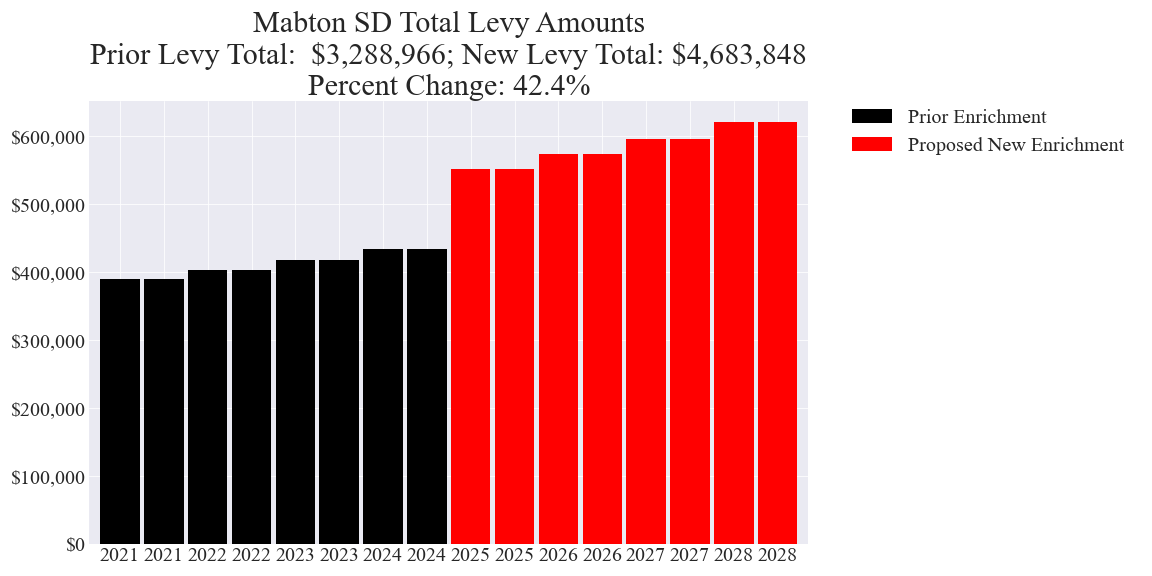
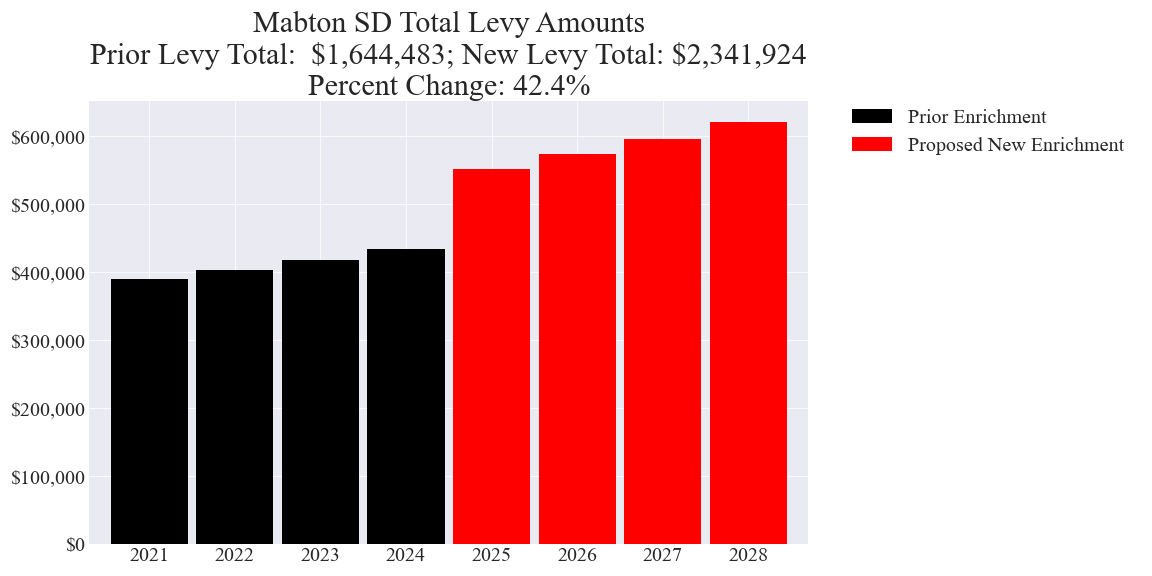
Updated election 20240213
Updated:
Mabton SD

Changed region(s): [[0.0625, 0.2188, 0.7188, 1.0], [0.5938, 0.0625, 0.7188, 0.125], [0.2812, 0.0625, 0.4062, 0.125]]

diff --git a/_includes/cost_estimates/20240213/Mabton_Enrichment_20240213_Enhanced.html b/_includes/cost_estimates/20240213/Mabton_Enrichment_20240213_Enhanced.html
@@ -19,7 +19,7 @@
 	totalLevyCostParcel = sampleParcelPOF * totalLevyCost;
 	levyYears = 4;
 	averageTotalLevyCostParcel = totalLevyCostParcel / levyYears;
-	totalLevyPriorCost = 3288966;
+	totalLevyPriorCost = 1644483;
 	totalLevyPriorCostParcel = sampleParcelPOF * totalLevyPriorCost;
 	averageTotalLevyPriorCostParcel = totalLevyPriorCostParcel / levyYears;
 	// POF Annual Change Percent
@@ -38,20 +38,12 @@
 
 		data.addRows([
 			['2021', 389617, 0],
-			['2021', 389617, 0],
-			['2022', 402874, 0],
 			['2022', 402874, 0],
 			['2023', 418097, 0],
-			['2023', 418097, 0],
-			['2024', 433895, 0],
 			['2024', 433895, 0],
 			['2025', 0, 551500],
-			['2025', 0, 551500],
-			['2026', 0, 573560],
 			['2026', 0, 573560],
 			['2027', 0, 596502],
-			['2027', 0, 596502],
-			['2028', 0, 620362],
 			['2028', 0, 620362],
 
 		]);
